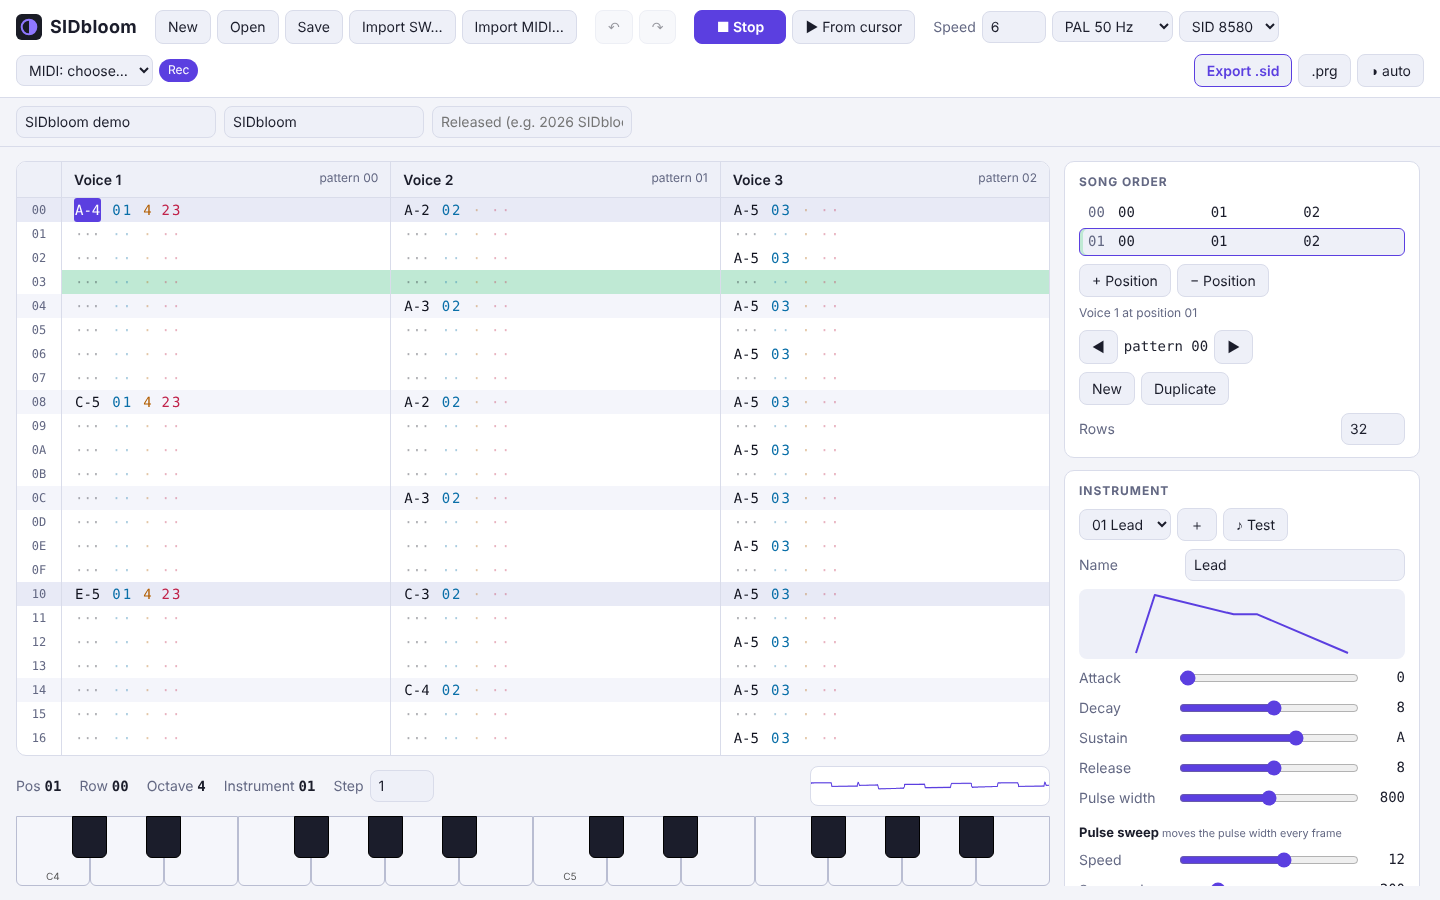
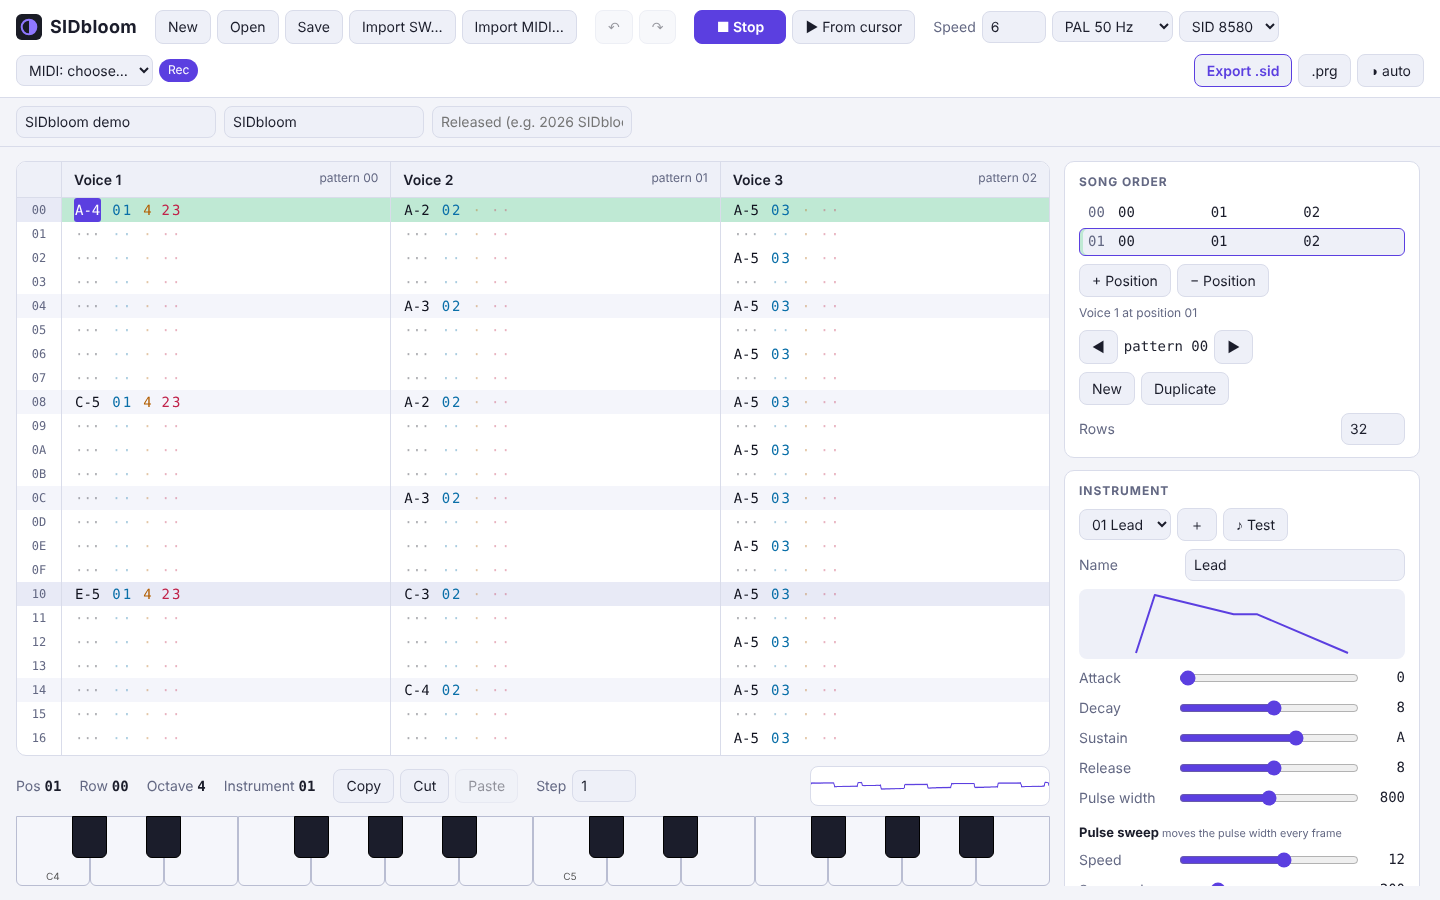
Cell selection with copy/cut/paste, confirm before discarding unsaved work, independent voices in a new song
Claude-Session: https://claude.ai/code/session_01LuH9CBTHAQgXXTveCLah5o

diff --git a/app/src/App.tsx b/app/src/App.tsx
@@ -4,10 +4,10 @@ import { Tracker } from "./components/Tracker";
 import { Piano, Scope } from "./components/Widgets";
 import { AudioEngine, type Positions } from "./audio";
 import { createMidiBackend, trackerNote, type MidiNote } from "./midi";
-import { openProject, pickMidi, pickSwm, saveFile } from "./files";
+import { confirmDiscard, openProject, pickMidi, pickSwm, saveFile } from "./files";
 import { MidiDialog } from "./components/MidiDialog";
 import { NOTE_OFF, hex, noteFromKey, type Song } from "./model";
-import { useStore } from "./store";
+import { selRect, useStore } from "./store";
 import { exportPrg, exportSid, importMidi, importSwm, midiParts, newSong, projectFits, validate, type MidiPart } from "./wasm";
 
 const isTyping = (t: EventTarget | null) =>
@@ -32,6 +32,12 @@ export function App({ initial }: { initial: Song }) {
   }, [audio]);
 
   useEffect(() => { document.documentElement.dataset.theme = theme === "auto" ? "" : theme; }, [theme]);
+  useEffect(() => {
+    if (!st.dirty) return;
+    const warn = (e: BeforeUnloadEvent) => { e.preventDefault(); };
+    window.addEventListener("beforeunload", warn);
+    return () => window.removeEventListener("beforeunload", warn);
+  }, [st.dirty]);
   useEffect(() => { document.title = `${st.dirty ? "• " : ""}${st.song.title || "Untitled"} — SIDbloom`; }, [st.dirty, st.song.title]);
 
   // follow the playhead through the order list
@@ -129,7 +135,12 @@ export function App({ initial }: { initial: Song }) {
   }, []);
   const open = useCallback(async () => {
     const r = await openProject();
-    if (r) { stop(); dispatch({ t: "load", song: r.song, fileName: r.name }); }
+    if (r && (!stateRef.current.dirty || await confirmDiscard("Opening this file"))) { stop(); dispatch({ t: "load", song: r.song, fileName: r.name }); }
+  }, [dispatch, stop]);
+  const startNew = useCallback(async () => {
+    if (stateRef.current.dirty && !(await confirmDiscard("Starting a new song"))) return;
+    stop();
+    dispatch({ t: "load", song: newSong() });
   }, [dispatch, stop]);
 
   const [notes, setNotes] = useState<string[]>([]);
@@ -138,6 +149,7 @@ export function App({ initial }: { initial: Song }) {
     if (!f) return;
     try {
       const r = importSwm(f.bytes);
+      if (stateRef.current.dirty && !(await confirmDiscard("Importing this module"))) return;
       stop();
       dispatch({ t: "load", song: r.song, fileName: f.name.replace(/\.(swm|prg|p00)$/i, "") + ".sidb" });
       setNotes(r.warnings);
@@ -158,12 +170,13 @@ export function App({ initial }: { initial: Song }) {
       setMessage(`Cannot import ${f.name}: ${e instanceof Error ? e.message : e}`);
     }
   }, []);
-  const finishMidiImport = useCallback((voices: (number | null)[]) => {
+  const finishMidiImport = useCallback(async (voices: (number | null)[]) => {
     const m = midiImport;
     setMidiImport(null);
     if (!m) return;
     try {
       const r = importMidi(m.bytes, voices);
+      if (stateRef.current.dirty && !(await confirmDiscard("Importing this MIDI file"))) return;
       stop();
       dispatch({ t: "load", song: r.song, fileName: m.name.replace(/\.(mid|midi|rmi)$/i, "") + ".sidb" });
       setNotes(r.warnings);
@@ -197,6 +210,8 @@ export function App({ initial }: { initial: Song }) {
         if (lower === "y") return act({ t: "redo" });
         if (lower === "s") { e.preventDefault(); void save(); return; }
         if (lower === "o") { e.preventDefault(); void open(); return; }
+        if (lower === "c" || lower === "x") return act({ t: "copy", cut: lower === "x" });
+        if (lower === "v") return act({ t: "paste" });
         if (key === "ArrowLeft") return act({ t: "orderPos", pos: s.orderPos - 1 });
         if (key === "ArrowRight") return act({ t: "orderPos", pos: s.orderPos + 1 });
         return;
@@ -205,11 +220,11 @@ export function App({ initial }: { initial: Song }) {
       switch (key) {
         case " ": e.preventDefault(); return void (playing ? stop() : play(false));
         case "Enter": e.preventDefault(); return void play(true);
-        case "Escape": return stop();
-        case "ArrowUp": return act({ t: "move", drow: -1 });
-        case "ArrowDown": return act({ t: "move", drow: 1 });
-        case "ArrowLeft": return act({ t: "move", dfield: -1 });
-        case "ArrowRight": return act({ t: "move", dfield: 1 });
+        case "Escape": dispatch({ t: "deselect" }); return stop();
+        case "ArrowUp": return act({ t: "move", drow: -1, extend: e.shiftKey });
+        case "ArrowDown": return act({ t: "move", drow: 1, extend: e.shiftKey });
+        case "ArrowLeft": return act({ t: "move", dfield: -1, extend: e.shiftKey });
+        case "ArrowRight": return act({ t: "move", dfield: 1, extend: e.shiftKey });
         case "Tab": return act({ t: "move", dch: e.shiftKey ? -1 : 1 });
         case "PageUp": return act({ t: "move", drow: -16 });
         case "PageDown": return act({ t: "move", drow: 16 });
@@ -254,7 +269,7 @@ export function App({ initial }: { initial: Song }) {
       <header className="topbar">
         <div className="brand"><img className="logo" src="/favicon.svg" alt="" width={26} height={26} /> SIDbloom</div>
         <div className="group">
-          <button onClick={() => { stop(); dispatch({ t: "load", song: newSong() }); }}>New</button>
+          <button onClick={() => void startNew()} title="Start a new song (asks first if there are unsaved changes)">New</button>
           <button onClick={() => void open()} title="Open a .sidb project, or a .sid / .prg exported by SIDbloom (Ctrl+O)">Open</button>
           <button onClick={() => void save()}>Save</button>
           <button onClick={() => void importSidWizard()} title="Import a SID-Wizard 1.x module (.swm)" data-testid="import-swm">Import SW…</button>
@@ -316,12 +331,17 @@ export function App({ initial }: { initial: Song }) {
 
       <main className="main">
         <div className="left">
-          <Tracker song={song} orderPos={st.orderPos} cursor={st.cursor} playRows={playRows} onCursor={(c) => dispatch({ t: "cursor", c })} />
+          <Tracker song={song} orderPos={st.orderPos} cursor={st.cursor} sel={st.sel ? selRect(st) : null} playRows={playRows} onCursor={(c, extend) => dispatch({ t: "cursor", c, extend })} />
           <div className="statusbar">
             <span>Pos <b>{hex(st.orderPos)}</b></span>
             <span>Row <b>{hex(st.cursor.row)}</b></span>
             <span>Octave <b>{st.octave}</b></span>
             <span>Instrument <b>{hex(st.curInst)}</b></span>
+            <span className="btn-row">
+              <button onClick={() => dispatch({ t: "copy" })} title="Copy the selected cells (Ctrl+C). Select with the mouse or Shift+arrows.">Copy</button>
+              <button onClick={() => dispatch({ t: "copy", cut: true })} title="Cut (Ctrl+X)">Cut</button>
+              <button onClick={() => dispatch({ t: "paste" })} disabled={!st.clip} title="Paste at the cursor (Ctrl+V)">Paste</button>
+            </span>
             <label className="inline">Step <input type="number" min={0} max={16} value={st.step} onChange={(e) => dispatch({ t: "step", n: Number(e.target.value) })} /></label>
             <Scope analyser={audio.analyser} />
           </div>

diff --git a/app/src/store.ts b/app/src/store.ts
@@ -6,11 +6,16 @@ import {
 
 export interface Cursor { ch: number; row: number; field: number } // field 0 note,1-2 inst,3 fx,4-5 param
 
+export interface Sel { ch: number; row: number } // anchor; the selection spans anchor..cursor
+export interface Rect { ch0: number; ch1: number; row0: number; row1: number }
+
 export interface State {
   song: Song;
   past: Song[];
   future: Song[];
   cursor: Cursor;
+  sel: Sel | null;
+  clip: Cell[][] | null; // clip[ch][row], copied cells
   orderPos: number;
   octave: number;
   curInst: number; // 1-based
@@ -24,8 +29,11 @@ export type Action =
   | { t: "load"; song: Song; fileName?: string }
   | { t: "undo" }
   | { t: "redo" }
-  | { t: "cursor"; c: Partial<Cursor> }
-  | { t: "move"; dch?: number; drow?: number; dfield?: number }
+  | { t: "cursor"; c: Partial<Cursor>; extend?: boolean }
+  | { t: "move"; dch?: number; drow?: number; dfield?: number; extend?: boolean }
+  | { t: "deselect" }
+  | { t: "copy"; cut?: boolean }
+  | { t: "paste" }
   | { t: "orderPos"; pos: number }
   | { t: "octave"; d: number }
   | { t: "curInst"; i: number }
@@ -33,12 +41,12 @@ export type Action =
   | { t: "sid8580"; v: boolean }
   | { t: "enterNote"; note: number }
   | { t: "enterHex"; digit: number }
-  | { t: "clearCell"; backspace?: boolean }
+  | { t: "clearCell"; backspace?: boolean; whole?: boolean }
   | { t: "insertRow"; remove?: boolean }
   | { t: "edit"; fn: (s: Song) => void; coalesce?: string };
 
 export function initState(song: Song): State {
-  return { song, past: [], future: [], cursor: { ch: 0, row: 0, field: 0 }, orderPos: 0, octave: 4, curInst: 1, step: 1, sid8580: true, fileName: "untitled.sidb", dirty: false };
+  return { song, past: [], future: [], cursor: { ch: 0, row: 0, field: 0 }, sel: null, clip: null, orderPos: 0, octave: 4, curInst: 1, step: 1, sid8580: true, fileName: "untitled.sidb", dirty: false };
 }
 
 const clone = <T,>(v: T): T => structuredClone(v);
@@ -59,6 +67,12 @@ function clampCursor(st: State): State {
   return { ...st, cursor: { ch: clamp(c.ch, 0, CHANNELS - 1), row: clamp(c.row, 0, rows - 1), field: clamp(c.field, 0, 5) } };
 }
 
+/** The selected cells, or just the cursor cell. */
+export function selRect(st: Pick<State, "sel" | "cursor">): Rect {
+  const a = st.sel ?? st.cursor, c = st.cursor;
+  return { ch0: Math.min(a.ch, c.ch), ch1: Math.max(a.ch, c.ch), row0: Math.min(a.row, c.row), row1: Math.max(a.row, c.row) };
+}
+
 function advance(st: State): State {
   const rows = rowsAt(st.song, st.orderPos);
   return { ...st, cursor: { ...st.cursor, row: (st.cursor.row + st.step) % rows } };
@@ -67,7 +81,7 @@ function advance(st: State): State {
 export function reducer(st: State, a: Action): State {
   switch (a.t) {
     case "load":
-      return { ...initState(a.song), fileName: a.fileName ?? "untitled.sidb", sid8580: st.sid8580, octave: st.octave };
+      return { ...initState(a.song), fileName: a.fileName ?? "untitled.sidb", sid8580: st.sid8580, octave: st.octave, clip: st.clip };
     case "undo": {
       if (!st.past.length) return st;
       const song = st.past[st.past.length - 1];
@@ -78,8 +92,32 @@ export function reducer(st: State, a: Action): State {
       const [song, ...future] = st.future;
       return clampCursor({ ...st, song, future, past: [...st.past, st.song], dirty: true });
     }
-    case "cursor":
-      return clampCursor({ ...st, cursor: { ...st.cursor, ...a.c } });
+    case "cursor": {
+      const sel = a.extend ? st.sel ?? { ch: st.cursor.ch, row: st.cursor.row } : null;
+      return clampCursor({ ...st, sel, cursor: { ...st.cursor, ...a.c } });
+    }
+    case "deselect": return st.sel ? { ...st, sel: null } : st;
+    case "copy": {
+      const r = selRect(st);
+      const clip = Array.from({ length: r.ch1 - r.ch0 + 1 }, (_, i) =>
+        Array.from({ length: r.row1 - r.row0 + 1 }, (_, j) => structuredClone(patternAt(st.song, r.ch0 + i, st.orderPos)?.rows[r.row0 + j] ?? emptyCell())));
+      const next = { ...st, clip };
+      return a.cut ? { ...reducer(next, { t: "clearCell", whole: true }), clip } : next;
+    }
+    case "paste": {
+      if (!st.clip) return st;
+      const { ch, row } = st.cursor, clip = st.clip;
+      const next = commit(st, (s) => {
+        clip.forEach((col, i) => col.forEach((cell, j) => {
+          const rows = patternAt(s, ch + i, st.orderPos)?.rows;
+          if (ch + i >= CHANNELS || !rows || row + j >= rows.length) return;
+          const c = structuredClone(cell);
+          if (c.inst > s.instruments.length) c.inst = 0;
+          rows[row + j] = c;
+        }));
+      });
+      return { ...next, sel: null };
+    }
     case "move": {
       let { ch, row, field } = st.cursor;
       const rows = rowsAt(st.song, st.orderPos);
@@ -91,11 +129,12 @@ export function reducer(st: State, a: Action): State {
       if (ch >= CHANNELS) ch = 0;
       if (ch < 0) ch = CHANNELS - 1;
       row = (row + (a.drow ?? 0) + rows) % rows;
-      return { ...st, cursor: { ch, row, field } };
+      const sel = a.extend ? st.sel ?? { ch: st.cursor.ch, row: st.cursor.row } : null;
+      return { ...st, sel, cursor: { ch, row, field } };
     }
     case "orderPos": {
       const pos = clamp(a.pos, 0, orderLength(st.song) - 1);
-      return clampCursor({ ...st, orderPos: pos });
+      return clampCursor({ ...st, orderPos: pos, sel: null });
     }
     case "octave": return { ...st, octave: clamp(st.octave + a.d, 0, 7) };
     case "curInst": return { ...st, curInst: clamp(a.i, 1, Math.max(1, st.song.instruments.length)) };
@@ -130,6 +169,16 @@ export function reducer(st: State, a: Action): State {
       return field === 2 || field === 5 ? advance({ ...next, cursor: { ...next.cursor, field: field === 2 ? 0 : 3 } }) : { ...next, cursor: { ...next.cursor, field: field + 1 } };
     }
     case "clearCell": {
+      if (st.sel || a.whole) { // clear whole cells of the selection
+        const r = selRect(st);
+        const next = commit(st, (s) => {
+          for (let c = r.ch0; c <= r.ch1; c++) {
+            const rows = patternAt(s, c, st.orderPos)?.rows;
+            for (let i = r.row0; rows && i <= r.row1 && i < rows.length; i++) rows[i] = emptyCell();
+          }
+        });
+        return { ...next, sel: a.whole ? st.sel : null };
+      }
       const { field, row, ch } = st.cursor;
       if (!cellAt(st.song, st.cursor, st.orderPos)) return st;
       const next = commit(st, (s) => {

diff --git a/app/src/components/Tracker.tsx b/app/src/components/Tracker.tsx
@@ -1,18 +1,19 @@
 import { memo, useEffect, useRef } from "react";
 import { cellText, hex, patternAt, rowsAt, type Song } from "../model";
-import type { Cursor } from "../store";
+import type { Cursor, Rect } from "../store";
 
 interface Props {
   song: Song;
   orderPos: number;
   cursor: Cursor;
+  sel: Rect | null; // selected cells (null: only the cursor)
   playRows: (number | null)[]; // per channel: playing row in this order position, or null
-  onCursor: (c: Partial<Cursor>) => void;
+  onCursor: (c: Partial<Cursor>, extend?: boolean) => void;
 }
 
 const FIELD_CLASS = ["note", "inst", "inst", "fx", "param", "param"] as const;
 
-export const Tracker = memo(function Tracker({ song, orderPos, cursor, playRows, onCursor }: Props) {
+export const Tracker = memo(function Tracker({ song, orderPos, cursor, sel, playRows, onCursor }: Props) {
   const rows = rowsAt(song, orderPos);
   const body = useRef<HTMLDivElement>(null);
   const follow = playRows.find((r) => r !== null) ?? null;
@@ -39,11 +40,12 @@ export const Tracker = memo(function Tracker({ song, orderPos, cursor, playRows,
             {[0, 1, 2].map((ch) => {
               const cell = patternAt(song, ch, orderPos)?.rows[r];
               const playing = playRows[ch] === r;
+              const selected = !!sel && ch >= sel.ch0 && ch <= sel.ch1 && r >= sel.row0 && r <= sel.row1;
               if (!cell) return <div key={ch} className="tcell off" />;
               const t = cellText(cell);
               const texts = [t.note, t.inst[0], t.inst[1], t.fx, t.param[0], t.param[1]];
               return (
-                <div key={ch} className={`tcell${playing ? " playing" : ""}${cell.note ? " has-note" : ""}`}>
+                <div key={ch} className={`tcell${playing ? " playing" : ""}${selected ? " selected" : ""}${cell.note ? " has-note" : ""}`}>
                   {texts.map((txt, f) => {
                     const active = cursor.ch === ch && cursor.row === r && cursor.field === f;
                     return (
@@ -51,7 +53,8 @@ export const Tracker = memo(function Tracker({ song, orderPos, cursor, playRows,
                         key={f}
                         data-testid={active ? "cursor" : undefined}
                         className={`f ${FIELD_CLASS[f]}${active ? " cursor" : ""}${txt.includes("·") ? " empty" : ""}`}
-                        onMouseDown={() => onCursor({ ch, row: r, field: f })}
+                        onMouseDown={(e) => { if (e.button === 0) onCursor({ ch, row: r, field: f }, e.shiftKey); }}
+                        onMouseEnter={(e) => { if (e.buttons & 1) onCursor({ ch, row: r }, true); }}
                       >
                         {txt}
                       </span>

diff --git a/app/src/files.ts b/app/src/files.ts
@@ -23,6 +23,16 @@ export async function saveFile(name: string, bytes: Uint8Array | string, ext: st
   return true;
 }
 
+/** Asks before unsaved work is replaced; native dialog in the desktop app. */
+export async function confirmDiscard(what: string): Promise<boolean> {
+  const msg = `This song has unsaved changes. ${what} will discard them. Continue?`;
+  if (inTauri()) {
+    const { ask } = await import("@tauri-apps/plugin-dialog");
+    return ask(msg, { title: "Unsaved changes", kind: "warning", okLabel: "Discard changes", cancelLabel: "Cancel" });
+  }
+  return window.confirm(msg);
+}
+
 /** Picks a project: a `.sidb`, or a `.sid` / `.prg` that SIDbloom exported (its project is embedded). */
 export function openProject(): Promise<{ song: Song; name: string } | null> {
   return new Promise((resolve) => {

diff --git a/app/src/wasm.ts b/app/src/wasm.ts
@@ -6,7 +6,13 @@ let ready: Promise<unknown> | null = null;
 export const loadWasm = () => (ready ??= init({ module_or_path: wasmUrl }));
 
 export const demoSong = (): Song => JSON.parse(w.demo_song());
-export const newSong = (): Song => JSON.parse(w.new_song());
+export const newSong = (): Song => {
+  const s: Song = JSON.parse(w.new_song());
+  // every voice gets its own pattern, so editing one voice does not change the others
+  while (s.patterns.length < 3) s.patterns.push(structuredClone(s.patterns[0]));
+  s.orders = [[0], [1], [2]];
+  return s;
+};
 export const validate = (s: Song) => w.validate(JSON.stringify(s));
 export const exportSid = (s: Song, is8580: boolean) => w.export_sid(JSON.stringify(s), is8580);
 export const exportPrg = (s: Song) => w.export_prg(JSON.stringify(s));

diff --git a/app/src/styles.css b/app/src/styles.css
@@ -66,6 +66,8 @@ input[type="number"] { width: 64px; }
 .rownum { color: var(--muted); text-align: center; font-size: 12px; user-select: none; }
 .tcell { display: flex; align-items: center; gap: 0; padding: 0 12px; border-left: 1px solid var(--line); white-space: pre; }
 .tcell.off { background: repeating-linear-gradient(45deg, transparent 0 6px, var(--line) 6px 7px); opacity: .5; }
+.tcell.selected { background: var(--sel, rgba(110, 90, 230, .22)); }
+.tracker-body { user-select: none; }
 .tcell.playing { background: var(--play); }
 .f { cursor: default; padding: 0 1px; border-radius: 3px; }
 .f.note { color: var(--note); margin-right: 10px; }

diff --git a/app/src/components/Panels.tsx b/app/src/components/Panels.tsx
@@ -201,6 +201,7 @@ export function HelpPanel() {
         <dt>Del / Backspace</dt><dd>Clear cell · Ins inserts a row</dd>
         <dt>[ ]  − =</dt><dd>Octave · instrument</dd>
         <dt>Space / Enter</dt><dd>Play song / play from cursor</dd>
+        <dt>Drag, Shift+arrows</dt><dd>Select cells · Ctrl+C / X / V copy, cut, paste</dd>
         <dt>Ctrl+Z / Y / S / O</dt><dd>Undo · redo · save · open</dd>
       </dl>
       <h3>Effects</h3>

diff --git a/docs/USER_GUIDE.md b/docs/USER_GUIDE.md
@@ -32,8 +32,13 @@ and export real `.sid` files that play on a C64 or in any SID player.
 | Insert / Shift+Backspace | Insert / delete a row (the rest of the pattern shifts) |
 | `[` `]` | Octave down / up |
 | `-` `=` | Previous / next instrument |
+| Drag with the mouse, or Shift+arrows | Select cells (several rows and voices) |
+| Ctrl+C / Ctrl+X / Ctrl+V | Copy, cut, paste the selection at the cursor (a single cell when nothing is selected); Del clears the selection |
 | Ctrl+Z / Ctrl+Y | Undo / redo (200 steps) |
 | Ctrl+S / Ctrl+O | Save / open a `.sidb` project |
+
+New, Open and the imports ask before they replace a song with unsaved changes. A new song gives each voice its own pattern;
+when several voices show the same pattern number in the order list they share it, and editing one changes the others.
 
 **Step** (status bar) sets how many rows the cursor moves after entering a note; 0 keeps it in place.
 

diff --git a/CHANGELOG.md b/CHANGELOG.md
@@ -6,6 +6,13 @@ All notable changes to SIDbloom are listed here. The format follows
 
 ## [Unreleased]
 
+### Added
+- Select cells with the mouse (drag) or Shift+arrows; copy, cut and paste them with Ctrl+C / X / V or the new buttons. Del clears the selection.
+- New, Open and the imports now ask before they replace a song with unsaved changes; closing the browser tab warns too.
+
+### Fixed
+- A new song gave all three voices the same pattern, so editing one voice edited all. Each voice now has its own pattern.
+
 ## [0.1.0] — first public preview
 
 The first version that can be used to write music from start to finish: compose in a tracker, hear it,
